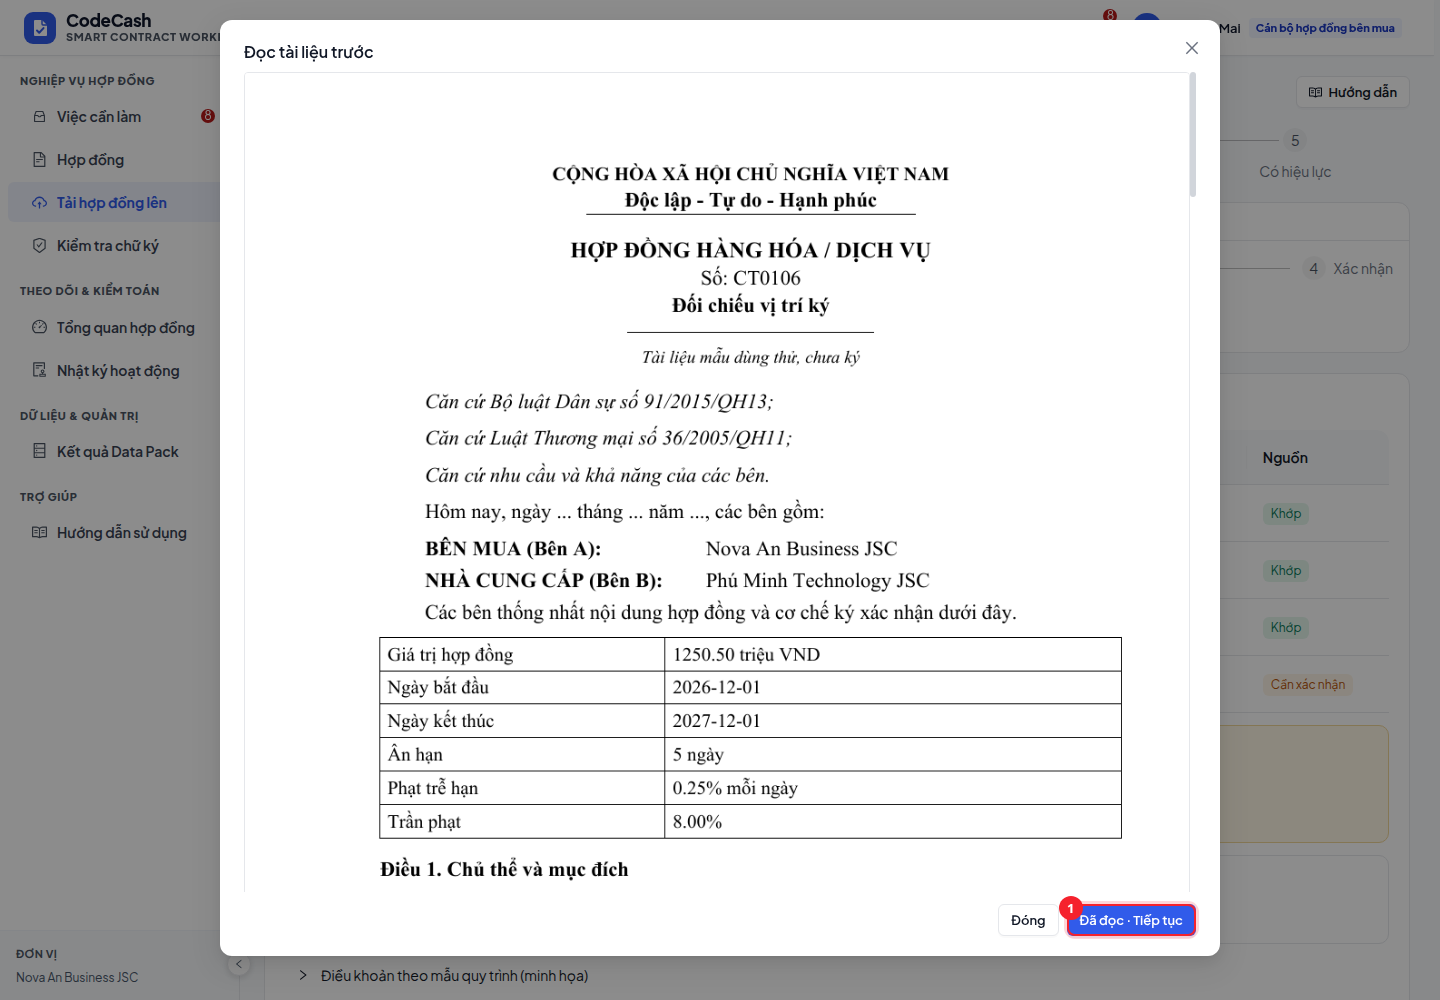
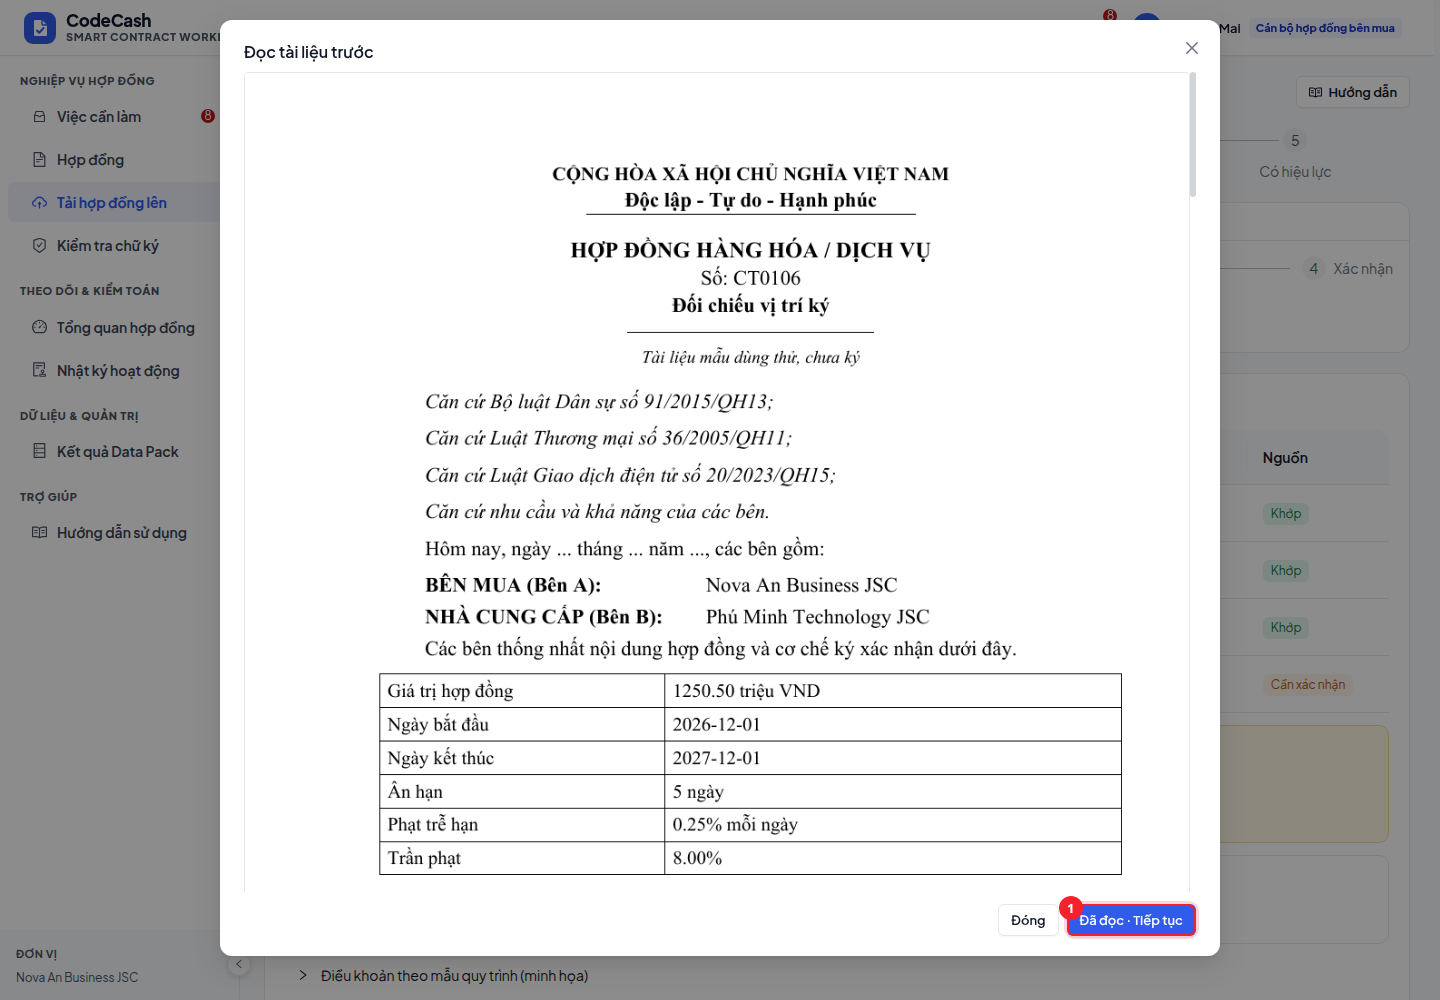
fix(frontend): apply the 8% legal penalty cap and cite the e-transactions law
Law on Commerce 2005 Article 301 caps penalties in commercial contracts at 8% of the breached obligation; drafts allowed 100%. Every drafted contract type is commerce between traders, so caps above 8% are refused with their own message. The sample contract now cites Law 20/2023/QH15 and names the court for unresolved disputes. Data Pack caps stay as the organiser set them.

Changed region(s): [[0.25, 0.465, 0.7812, 0.899]]

diff --git a/apps/api/src/common/field-validation.ts b/apps/api/src/common/field-validation.ts
@@ -73,6 +73,13 @@ export function validIsoDate(value: unknown): value is string {
   );
 }
 
+/**
+ * Luật Thương mại 2005, Điều 301: in a commercial contract the penalty may not exceed 8% of the
+ * value of the breached obligation. Every contract type drafted here is commerce between
+ * traders (goods, services, software, maintenance), so the cap applies to all of them.
+ */
+export const LEGAL_PENALTY_CAP_PCT = "8";
+
 export function draftProblems(input: {
   title: string;
   valueMillion: string;
@@ -104,5 +111,7 @@ export function draftProblems(input: {
     errors.penaltyRatePct = "INVALID_PENALTY";
   if (!exactDecimal(input.maxPenaltyPct, "100"))
     errors.maxPenaltyPct = "INVALID_PENALTY";
+  else if (!exactDecimal(input.maxPenaltyPct, LEGAL_PENALTY_CAP_PCT))
+    errors.maxPenaltyPct = "PENALTY_OVER_LEGAL_CAP";
   return errors;
 }

diff --git a/packages/contracts/src/field-validation.ts b/packages/contracts/src/field-validation.ts
@@ -73,6 +73,13 @@ export function validIsoDate(value: unknown): value is string {
   );
 }
 
+/**
+ * Luật Thương mại 2005, Điều 301: in a commercial contract the penalty may not exceed 8% of the
+ * value of the breached obligation. Every contract type drafted here is commerce between
+ * traders (goods, services, software, maintenance), so the cap applies to all of them.
+ */
+export const LEGAL_PENALTY_CAP_PCT = "8";
+
 export function draftProblems(input: {
   title: string;
   valueMillion: string;
@@ -104,5 +111,7 @@ export function draftProblems(input: {
     errors.penaltyRatePct = "INVALID_PENALTY";
   if (!exactDecimal(input.maxPenaltyPct, "100"))
     errors.maxPenaltyPct = "INVALID_PENALTY";
+  else if (!exactDecimal(input.maxPenaltyPct, LEGAL_PENALTY_CAP_PCT))
+    errors.maxPenaltyPct = "PENALTY_OVER_LEGAL_CAP";
   return errors;
 }

diff --git a/docs/NGHIEP_VU.md b/docs/NGHIEP_VU.md
@@ -395,6 +395,15 @@ Ký số mang lại hai giá trị mà chữ ký trên giấy quét lại không
 - Bản demo dùng chứng thư mô phỏng và ghi rõ trên màn hình; giá trị pháp lý nói trên chỉ có khi ký qua nhà cung cấp dịch vụ chứng thực chữ ký số được cấp phép, là bước tích hợp của MVP.
 - AI đọc PDF chỉ đề xuất trường kèm trang và đoạn trích; người dùng xác nhận; AI không tham gia quyết định thanh toán.
 
+Căn cứ pháp lý áp dụng cho hợp đồng soạn trong ứng dụng (tự nghiên cứu, không thay ý kiến luật sư):
+
+| Nội dung | Căn cứ | Cách áp dụng |
+| --- | --- | --- |
+| Trần phạt vi phạm | Luật Thương mại 2005, Điều 301: không quá 8% giá trị phần nghĩa vụ bị vi phạm | Cả 4 loại hợp đồng của ứng dụng là thương mại giữa thương nhân; bản nháp có trần trên 8% bị từ chối (`PENALTY_OVER_LEGAL_CAP`). Engine tính trần trên giá trị mốc, đúng "phần nghĩa vụ bị vi phạm" |
+| Dữ liệu của BTC | Đề, mục 10: giữ nguyên Data Pack | 51/220 mốc có phạt trong Data Pack đặt trần 10–12%; giữ nguyên để chấm, không mốc PENALTY nào vượt 8% (cao nhất 1,20%) |
+| Hợp đồng và chứng từ điện tử | Luật Giao dịch điện tử số 20/2023/QH15 | Văn bản mẫu ghi thêm căn cứ này; giá trị pháp lý đầy đủ của chữ ký chỉ có khi ký qua tổ chức cung cấp dịch vụ chứng thực được cấp phép (như trên) |
+| Giải quyết tranh chấp | Bộ luật Dân sự 2015, Luật Thương mại 2005 | Văn bản mẫu: thương lượng, không được thì đưa ra Tòa án có thẩm quyền; trong ứng dụng, tranh chấp mở thì tạm giữ khoản chi (BR-08) |
+
 ## 12. Đối chiếu đề bài và câu trả lời BTC
 
 | Nguồn                     | Yêu cầu                                                                                                                                                                                         | Cách đáp ứng                                                                                     | Bằng chứng                                                                                                  |
